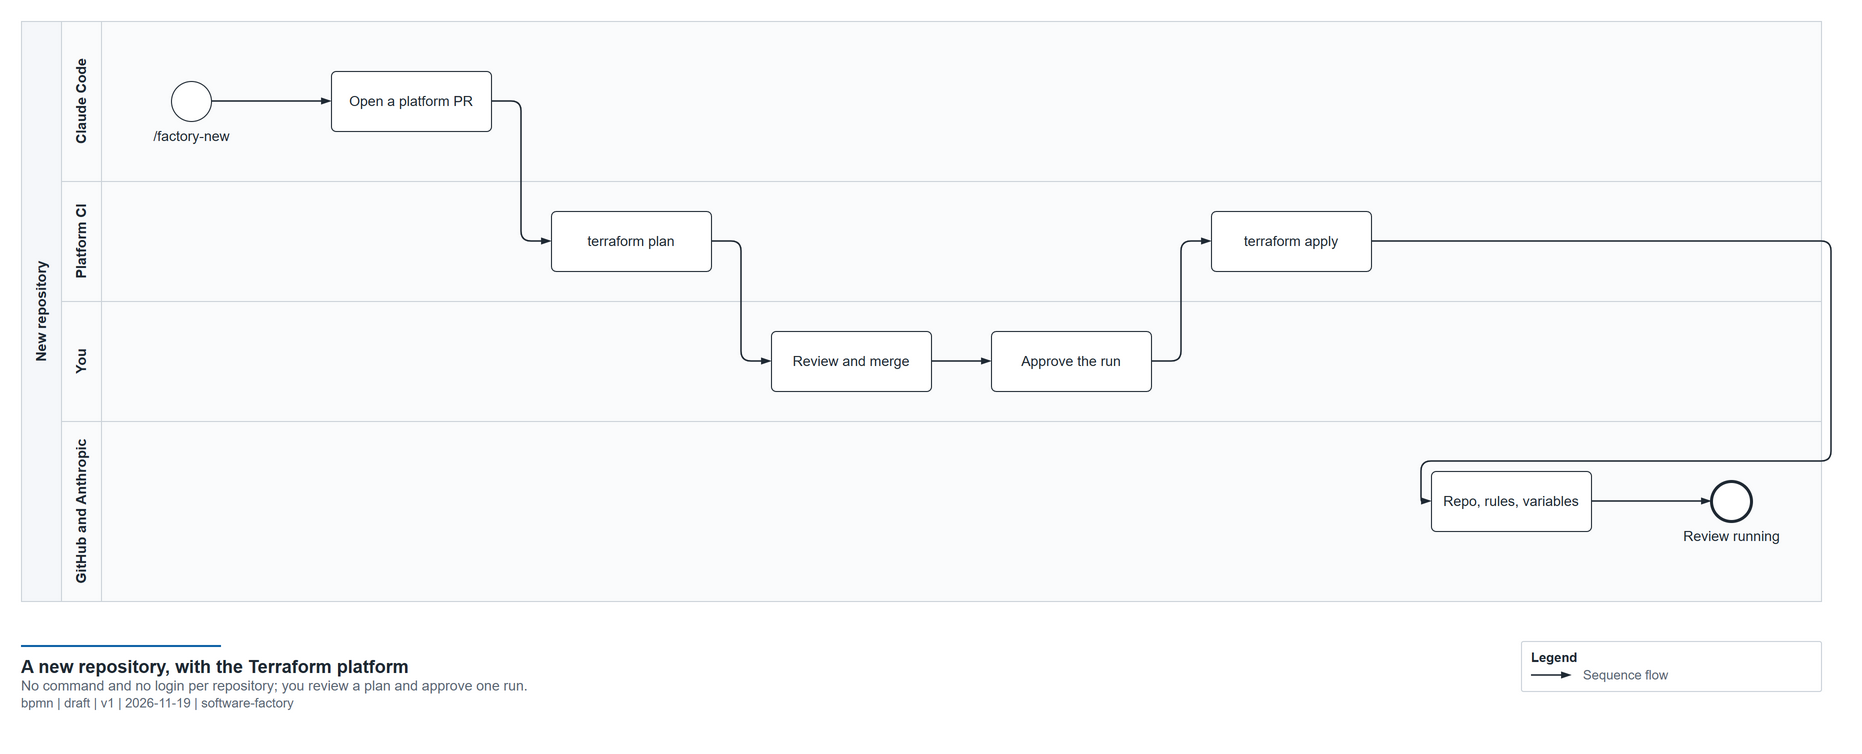
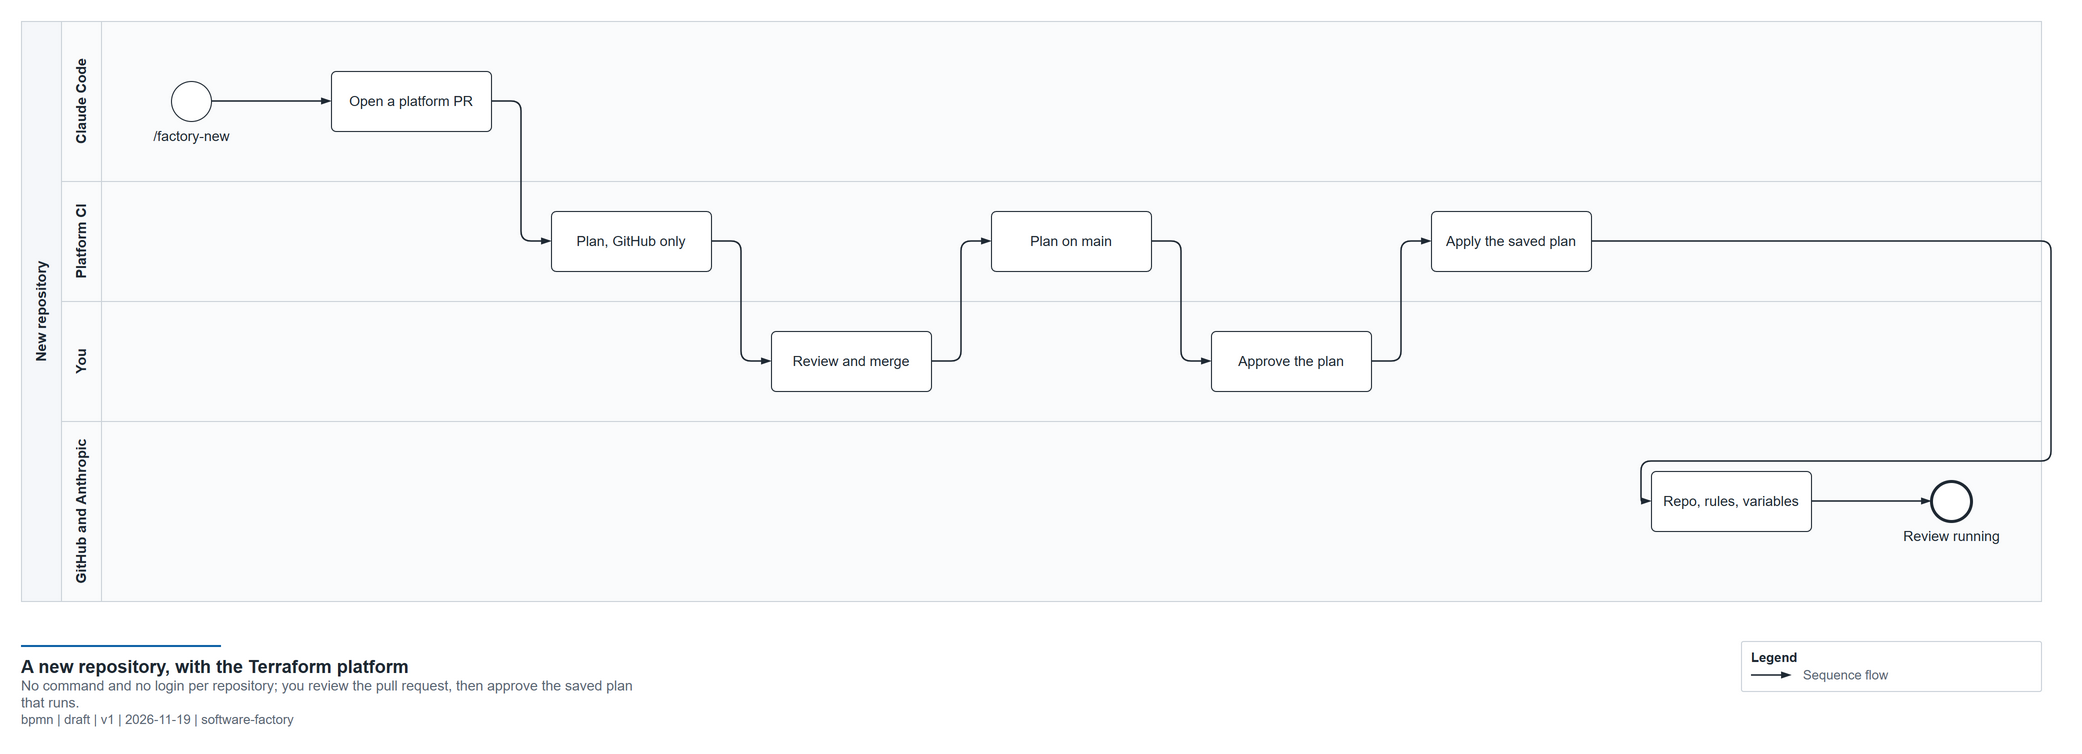
docs: the org:admin token never reaches a pull request job
Found by the Claude review on #27: reading federation rules needs the
org:admin token (there is no read-only scope), so a pull request job
could not plan the Anthropic side without making that token reachable
from code the pull request controls.

Pull requests now plan GitHub only and validate the Anthropic code.
After a merge, a job on main plans both roots and saves the plan; the
apply job applies exactly that plan after your approval. The org:admin
rule matches only the jobs on main. Phase 4's acceptance adds a test
pull request that must not get the token. Both diagrams follow.

diff --git a/docs/plans/2026-11-19-terraform-platform.md b/docs/plans/2026-11-19-terraform-platform.md
@@ -10,7 +10,7 @@ repositories." Then: "write the Terraform plan up and start the one-day test."
 
 Today every repository is set up by hand or by a command a person runs: create the repository, its federation rules,
 its variables, its rulesets; and each organization's Actions settings are clicked in the UI. After this plan, all of it
-is **code in one platform repository**: a pull request shows the plan, a merge you approve applies it, and nothing
+is **code in one platform repository**: a pull request is reviewed with its plan, a merge you approve applies it, and nothing
 else is needed per repository. Two side effects matter as much as the automation: settings changed by hand become
 visible (drift), and every change is reviewed like code.
 
@@ -101,7 +101,7 @@ That evidence settles D2.
 
 ## Target architecture
 
-![How an approved change reaches GitHub and Anthropic: you read the plan of a pull request and approve the apply job on main; the job gets a GitHub App installation token to change the organizations and repositories, and exchanges its GitHub OIDC token at a Console-made org:admin federation rule for a 10-minute token to the Anthropic Admin API; state lives in a remote backend without secrets](../diagrams/terraform-platform.png)
+![How an approved change reaches GitHub and Anthropic: you review the pull request, whose job plans GitHub and validates the Anthropic code; after the merge the jobs on main plan both, wait for your approval and apply the saved plan; they get a GitHub App installation token to change the organizations and repositories, and exchanges its GitHub OIDC token at a Console-made org:admin federation rule for a 10-minute token to the Anthropic Admin API; state lives in a remote backend without secrets](../diagrams/terraform-platform.png)
 
 - **One platform repository** (D1), one Terraform root per concern: `github/` (one provider alias per organization)
   and `anthropic/`. A module `factory-repo` holds everything one repository needs: the repository settings, its
@@ -110,19 +110,29 @@ That evidence settles D2.
   last, the order `claude_federation.py --set-variables` already enforces.
 - **Per team:** a workspace with a spend limit and a service account. **Per organization:** Actions workflow
   permissions, organization variables, rulesets where the plan allows them.
-- **Credentials:** Anthropic through one `org:admin` federation rule, made once in the Console and pinned to the apply
-  job (subject of the platform repository's `production` environment, `job_workflow_ref` of the apply workflow);
+- **Credentials:** Anthropic through one `org:admin` federation rule, made once in the Console and matching only the
+  jobs on `main` (subject of the platform repository's `production` environment, whose deployment branch is `main`,
+  and `job_workflow_ref` of the platform workflow on `main`);
   GitHub through a GitHub App installed on each organization, whose private key is an environment secret: the one
   stored secret of the platform.
-- **Pull requests run `terraform plan`** with read-only credentials; **merges run `apply`** in an environment with you
-  as required reviewer.
+- **Where each plan runs.** Reading federation rules needs the `org:admin` token too (there is no read-only scope),
+  and that token must never be reachable from code a pull request controls. So:
+  - **pull requests** run `terraform plan` for `github/` only (a GitHub App token with read permissions) and
+    `terraform validate` for `anthropic/`, which needs no credential;
+  - **after a merge, on `main`,** a plan job (environment `production`) runs `terraform plan -out` for both roots and
+    shows the Anthropic plan in the job summary; nothing is changed;
+  - an **apply job** then waits for **your approval** (required reviewer on the environment) and applies exactly that
+    saved plan, so what you approved is what runs.
+  The Anthropic part of a change is therefore reviewed after the merge, before anything is applied; its code was
+  reviewed in the pull request.
 
 ### A new repository, once the platform exists
 
-![A new repository with the Terraform platform: /factory-new opens a platform pull request; platform CI runs terraform plan; you review and merge, then approve the run; terraform apply creates the repository, its rules and its variables; the review is running](../diagrams/terraform-new-repo.png)
+![A new repository with the Terraform platform: /factory-new opens a platform pull request; platform CI plans the GitHub side; you review and merge; CI plans both sides on main; you approve the saved plan; CI applies it and creates the repository, its rules and its variables; the review is running](../diagrams/terraform-new-repo.png)
 
 `/factory-new` stops running `gh repo create` and handing over a command: it adds one `module "<name>"` block to the
-platform repository in a pull request. You review the plan, merge, approve. No login, no command per repository.
+platform repository in a pull request. You review it, merge, and approve the saved plan. No login, no command per
+repository.
 
 ## Phases
 
@@ -133,7 +143,7 @@ Each phase is useful on its own and can stop there.
 | 1. Spike | this document's spike | GitHub: done. Anthropic: both providers import with `0 to change`; D2 decided | S, half done |
 | 2. Anthropic in code | the chosen provider manages the rules, service account (and workspaces, if the provider allows it keyless) of the three repositories, applied locally with your `ant` login | `plan` clean after import; one new rule created by Terraform works on a real pull request; `claude_federation.py` documented as the fallback | S |
 | 3. GitHub in code | org workflow permissions and variables of all six organizations, repository settings and variables of the factory repositories; the GitHub App | `plan` clean after import; the egov-sofa default token permission set to `read` through a reviewed change | M |
-| 4. CI apply | platform repository (D1), state backend (D3), the Console `org:admin` rule, the `production` environment | a merge applies after your approval with no local login; a pull request shows the plan | M |
+| 4. CI apply | platform repository (D1), state backend (D3), the Console `org:admin` rule, the `production` environment | a pull request shows the GitHub plan and validates the Anthropic code; after a merge the plan on `main` shows both, and the saved plan is applied only after your approval, with no local login; a test pull request that edits the workflow cannot get an `org:admin` token | M |
 | 5. `/factory-new` through the platform | the skill opens the platform pull request instead of running commands | a new repository from `/factory-new` gets its review working with no command and no login | S |
 
 ## Risks / out of scope
